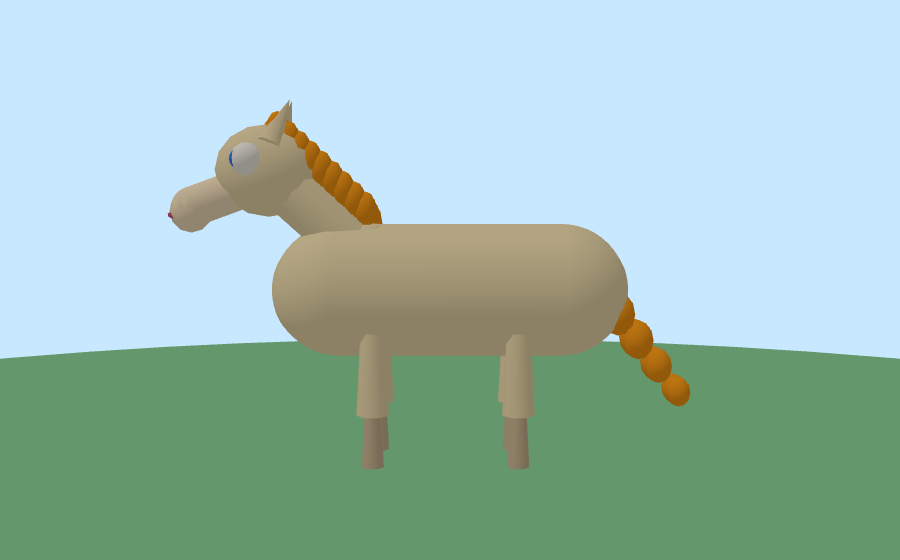
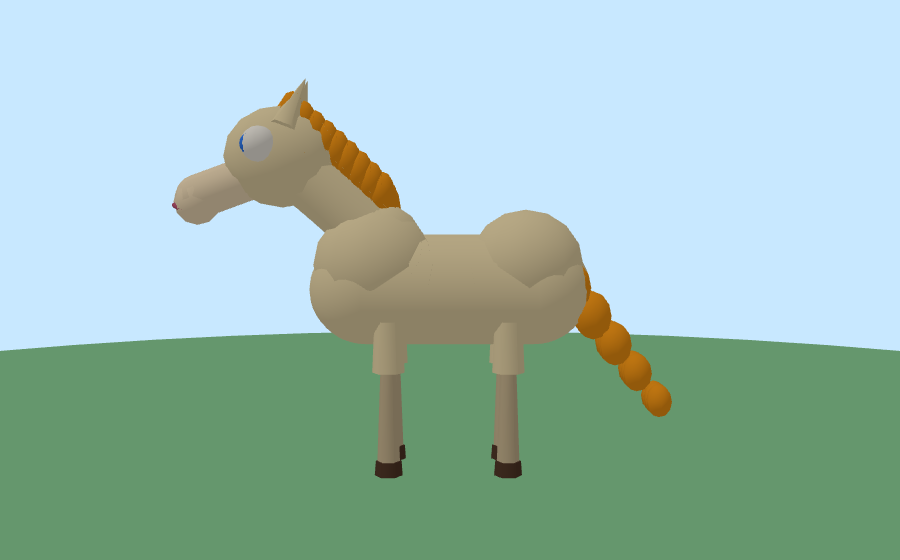
Stables: compact pony torso (build 2026.11.09-23)
Shorten the barrel to ~70% length and slim girth to ~78%, with a soft back dip and rounder chest/rump. Re-seat legs (slightly longer), neck base, tail, saddle and mane on the compact body; keep slim ~45° neck, sbNeckAttached and saddleTop seat.

Changed region(s): [[0.0, 0.1518, 1.0, 0.85]]

diff --git a/index.html b/index.html
@@ -1418,7 +1418,7 @@ const $ = s => document.querySelector(s);
 const $$ = s => [...document.querySelectorAll(s)];
 const COLORS = ['#ff4d5e','#ff9f1c','#ffd23f','#2ec27e','#3a86ff','#8b5cf6','#ff6fb5','#ffffff','#2d2d2d','#8d5524','#f1c27d','#ffdbac'];
 // Bump BUILD on every deploy (version.json next to index.html must match). Old cached pages compare and refresh themselves.
-const BUILD = '2026.11.09-22';
+const BUILD = '2026.11.09-23';
 function checkUpdate(why){
   if (location.protocol === 'file:') return Promise.resolve(false);
   return fetch('version.json?t=' + Date.now(), {cache: 'no-store'}).then(r => r.ok ? r.json() : null).then(j => {
@@ -10894,7 +10894,7 @@ const Obby = (() => {
     ic.lv = Math.max(1, Math.min(99, d.lv | 0 || 1)); (Array.isArray(d.ev) ? d.ev : []).forEach(e => icEvent(e));
   }
   function icGuestMsg(g, d){ if (!ic || ic.remote || !d) return; icApply(g, d); }
-  /* ===================== t238u: 🐴 pony silhouette — slimmer short neck + mane ===================== */
+  /* ===================== t239u: 🐴 compact pony torso + slim short neck ===================== */
   const SB_KEY = 'rubloxStable', SB_DRAIN = 25, SB_MOUNT_CD = .85;
   const SB_HIP = 1.32; // avatar pivot ≈ this above P.y — used to place hips on saddleTop
   const SB_PONIES = [
@@ -10926,7 +10926,7 @@ const Obby = (() => {
     return { top, foot, clear: foot + .55 };
   }
   function sbMesh(pony, x, z){
-    // Cute cartoon PONY (+Z forward). Short thick ~45° neck, horse muzzle, fluffy mane/tail.
+    // Cute cartoon PONY (+Z forward). Compact barrel, slim ~45° neck, horse muzzle, fluffy mane/tail.
     // Head is parented to neck; neck base embeds in chest, tip embeds in skull (sbNeckAttached).
     const def = sbPonyOf(pony.id), g = new THREE.Group(); g.position.set(x, 0, z); scene.add(g);
     const coat = sbMat(def.coat), maneM = sbMat(def.mane), hoofM = sbMat(def.hoof || shade(def.coat, -40));
@@ -10939,21 +10939,24 @@ const Obby = (() => {
       return v;
     };
 
-    // Horsey barrel — longer than tall (not an egg)
-    const body = new THREE.Mesh(new THREE.CapsuleGeometry(.46, 1.55, 6, 12), coat);
-    body.rotation.x = Math.PI / 2; body.position.set(0, 1.18, 0); g.add(body);
-    // chest fill so the thick neck base blends into the front of the barrel
-    const chest = new THREE.Mesh(new THREE.SphereGeometry(.28, 10, 8), coat);
-    chest.position.set(0, 1.32, .52); chest.scale.set(1.0, .9, 1.05); g.add(chest);
-    const bodyBounds = {minX: -.58, maxX: .58, minY: .68, maxY: 1.70, minZ: -1.25, maxZ: 1.15};
+    // Compact pony barrel — ~70% length, ~78% girth, slight back dip, round chest/rump
+    const body = new THREE.Mesh(new THREE.CapsuleGeometry(.35, 1.08, 6, 12), coat);
+    body.rotation.x = Math.PI / 2; body.position.set(0, 1.14, 0); g.add(body);
+    // rounder chest (front of barrel, not filling the throat under the slim neck)
+    const chest = new THREE.Mesh(new THREE.SphereGeometry(.34, 10, 8), coat);
+    chest.position.set(0, 1.30, .48); chest.scale.set(1.12, 1.08, 1.15); g.add(chest);
+    // rounder rump; slightly higher than mid-barrel so the back reads a soft dip
+    const rump = new THREE.Mesh(new THREE.SphereGeometry(.33, 10, 8), coat);
+    rump.position.set(0, 1.30, -.48); rump.scale.set(1.12, 1.05, 1.12); g.add(rump);
+    const bodyBounds = {minX: -.50, maxX: .50, minY: .72, maxY: 1.70, minZ: -.95, maxZ: .90};
 
-    // SHORT thick neck ~45° forward (llama was upright to y≈2.5; pony stops ~y=1.95)
+    // SHORT slim neck ~45° forward — base at withers of compact torso
     // base INSIDE chest/withers, tip INSIDE skull
-    const base = V3(0, 1.40, .58), mid = V3(0, 1.68, .88), tip = V3(0, 1.95, 1.18);
+    const base = V3(0, 1.42, .42), mid = V3(0, 1.68, .70), tip = V3(0, 1.92, .98);
     const neck = new THREE.Group(); neck.position.x = base.x; neck.position.y = base.y; neck.position.z = base.z; g.add(neck);
     const local = [base, mid, tip].map(p => V3(p.x - base.x, p.y - base.y, p.z - base.z));
     const curve = new THREE.CatmullRomCurve3(local);
-    // Wide at chest → slightly narrower at head (still thick)
+    // Slim: ~60% of the old head-wide wedge
     const tubeWide = new THREE.Mesh(new THREE.TubeGeometry(curve, 20, .20, 10, false), coat); neck.add(tubeWide);
     const tubeCore = new THREE.Mesh(new THREE.TubeGeometry(curve, 20, .17, 10, false), coat); neck.add(tubeCore);
     const jointBase = new THREE.Mesh(new THREE.SphereGeometry(.26, 10, 8), coat); jointBase.position.set(0, 0, 0); neck.add(jointBase);
@@ -11007,7 +11010,7 @@ const Obby = (() => {
     }
 
     // FULLER fluffy tail
-    const tail = new THREE.Group(); tail.position.set(0, 1.38, -.88); g.add(tail);
+    const tail = new THREE.Group(); tail.position.set(0, 1.34, -.62); g.add(tail);
     for (let i = 0; i < 6; i++){
       for (let k = 0; k < 3; k++){
         const t = new THREE.Mesh(new THREE.SphereGeometry(.14 - i * .012, 6, 6), maneM);
@@ -11018,26 +11021,26 @@ const Obby = (() => {
 
     // Slightly tapered legs + darker hooves
     const legs = [];
-    [[.28, .64, .52], [-.28, .64, .52], [.28, .64, -.46], [-.28, .64, -.46]].forEach(([lx, ly, lz]) => {
+    [[.22, .98, .38], [-.22, .98, .38], [.22, .98, -.36], [-.22, .98, -.36]].forEach(([lx, ly, lz]) => {
       const leg = new THREE.Group(); leg.position.set(lx, ly, lz); g.add(leg);
-      const thigh = new THREE.Mesh(new THREE.CylinderGeometry(.08, .11, .58, 6), coat); thigh.position.y = 0; leg.add(thigh);
-      const shin = new THREE.Mesh(new THREE.CylinderGeometry(.055, .08, .48, 6), dark); shin.position.y = -.5; leg.add(shin);
-      const hoof = new THREE.Mesh(new THREE.CylinderGeometry(.09, .1, .14, 6), hoofM); hoof.position.y = -.78; leg.add(hoof);
+      const thigh = new THREE.Mesh(new THREE.CylinderGeometry(.07, .10, .68, 6), coat); thigh.position.y = 0; leg.add(thigh);
+      const shin = new THREE.Mesh(new THREE.CylinderGeometry(.05, .07, .55, 6), dark); shin.position.y = -.615; leg.add(shin);
+      const hoof = new THREE.Mesh(new THREE.CylinderGeometry(.08, .09, .14, 6), hoofM); hoof.position.y = -.96; leg.add(hoof);
       legs.push(leg);
     });
 
     // Saddle on barrel — saddleTop drives rider seat (must stay consistent)
     const saddle = new THREE.Group(); saddle.visible = false; g.add(saddle);
-    const blanketY = 1.50, seatY = 1.56;
-    const blanket = new THREE.Mesh(new THREE.BoxGeometry(.7, .06, .9), sbMat('#ffd23f')); blanket.position.set(0, blanketY, .02); saddle.add(blanket);
-    const seat = new THREE.Mesh(new THREE.BoxGeometry(.55, .12, .7), sbMat('#8b4513')); seat.position.set(0, seatY, .02); saddle.add(seat);
+    const blanketY = 1.48, seatY = 1.54;
+    const blanket = new THREE.Mesh(new THREE.BoxGeometry(.58, .06, .7), sbMat('#ffd23f')); blanket.position.set(0, blanketY, .02); saddle.add(blanket);
+    const seat = new THREE.Mesh(new THREE.BoxGeometry(.48, .12, .55), sbMat('#8b4513')); seat.position.set(0, seatY, .02); saddle.add(seat);
     const saddleTop = seatY + .06;
     const bridle = new THREE.Group(); bridle.visible = false; head.add(bridle);
     const strap = new THREE.Mesh(new THREE.TorusGeometry(.26, .022, 6, 12), sbMat('#5a4030')); strap.rotation.y = Math.PI / 2; strap.position.set(0, -.02, .15); bridle.add(strap);
     const rein = new THREE.Mesh(new THREE.BoxGeometry(.04, .04, .45), sbMat('#5a4030')); rein.position.set(0, -.18, -.05); bridle.add(rein);
 
     g.userData.parts = {
-      body, neck, head, tail, legs, saddle, bridle, saddleTop, seat, jointBase, jointTop, maneTufts, chest,
+      body, neck, head, tail, legs, saddle, bridle, saddleTop, seat, jointBase, jointTop, maneTufts, chest, rump,
       neckBase: {x: base.x, y: base.y, z: base.z},
       neckTop: {x: tip.x, y: tip.y, z: tip.z},
       bodyBounds, headR: .5,

diff --git a/dev/stable/stable.js b/dev/stable/stable.js
@@ -1,4 +1,4 @@
-  /* ===================== t238u: 🐴 pony silhouette — slimmer short neck + mane ===================== */
+  /* ===================== t239u: 🐴 compact pony torso + slim short neck ===================== */
   const SB_KEY = 'rubloxStable', SB_DRAIN = 25, SB_MOUNT_CD = .85;
   const SB_HIP = 1.32; // avatar pivot ≈ this above P.y — used to place hips on saddleTop
   const SB_PONIES = [
@@ -30,7 +30,7 @@
     return { top, foot, clear: foot + .55 };
   }
   function sbMesh(pony, x, z){
-    // Cute cartoon PONY (+Z forward). Short thick ~45° neck, horse muzzle, fluffy mane/tail.
+    // Cute cartoon PONY (+Z forward). Compact barrel, slim ~45° neck, horse muzzle, fluffy mane/tail.
     // Head is parented to neck; neck base embeds in chest, tip embeds in skull (sbNeckAttached).
     const def = sbPonyOf(pony.id), g = new THREE.Group(); g.position.set(x, 0, z); scene.add(g);
     const coat = sbMat(def.coat), maneM = sbMat(def.mane), hoofM = sbMat(def.hoof || shade(def.coat, -40));
@@ -43,21 +43,24 @@
       return v;
     };
 
-    // Horsey barrel — longer than tall (not an egg)
-    const body = new THREE.Mesh(new THREE.CapsuleGeometry(.46, 1.55, 6, 12), coat);
-    body.rotation.x = Math.PI / 2; body.position.set(0, 1.18, 0); g.add(body);
-    // chest fill so the thick neck base blends into the front of the barrel
-    const chest = new THREE.Mesh(new THREE.SphereGeometry(.28, 10, 8), coat);
-    chest.position.set(0, 1.32, .52); chest.scale.set(1.0, .9, 1.05); g.add(chest);
-    const bodyBounds = {minX: -.58, maxX: .58, minY: .68, maxY: 1.70, minZ: -1.25, maxZ: 1.15};
+    // Compact pony barrel — ~70% length, ~78% girth, slight back dip, round chest/rump
+    const body = new THREE.Mesh(new THREE.CapsuleGeometry(.35, 1.08, 6, 12), coat);
+    body.rotation.x = Math.PI / 2; body.position.set(0, 1.14, 0); g.add(body);
+    // rounder chest (front of barrel, not filling the throat under the slim neck)
+    const chest = new THREE.Mesh(new THREE.SphereGeometry(.34, 10, 8), coat);
+    chest.position.set(0, 1.30, .48); chest.scale.set(1.12, 1.08, 1.15); g.add(chest);
+    // rounder rump; slightly higher than mid-barrel so the back reads a soft dip
+    const rump = new THREE.Mesh(new THREE.SphereGeometry(.33, 10, 8), coat);
+    rump.position.set(0, 1.30, -.48); rump.scale.set(1.12, 1.05, 1.12); g.add(rump);
+    const bodyBounds = {minX: -.50, maxX: .50, minY: .72, maxY: 1.70, minZ: -.95, maxZ: .90};
 
-    // SHORT thick neck ~45° forward (llama was upright to y≈2.5; pony stops ~y=1.95)
+    // SHORT slim neck ~45° forward — base at withers of compact torso
     // base INSIDE chest/withers, tip INSIDE skull
-    const base = V3(0, 1.40, .58), mid = V3(0, 1.68, .88), tip = V3(0, 1.95, 1.18);
+    const base = V3(0, 1.42, .42), mid = V3(0, 1.68, .70), tip = V3(0, 1.92, .98);
     const neck = new THREE.Group(); neck.position.x = base.x; neck.position.y = base.y; neck.position.z = base.z; g.add(neck);
     const local = [base, mid, tip].map(p => V3(p.x - base.x, p.y - base.y, p.z - base.z));
     const curve = new THREE.CatmullRomCurve3(local);
-    // Wide at chest → slightly narrower at head (still thick)
+    // Slim: ~60% of the old head-wide wedge
     const tubeWide = new THREE.Mesh(new THREE.TubeGeometry(curve, 20, .20, 10, false), coat); neck.add(tubeWide);
     const tubeCore = new THREE.Mesh(new THREE.TubeGeometry(curve, 20, .17, 10, false), coat); neck.add(tubeCore);
     const jointBase = new THREE.Mesh(new THREE.SphereGeometry(.26, 10, 8), coat); jointBase.position.set(0, 0, 0); neck.add(jointBase);
@@ -111,7 +114,7 @@
     }
 
     // FULLER fluffy tail
-    const tail = new THREE.Group(); tail.position.set(0, 1.38, -.88); g.add(tail);
+    const tail = new THREE.Group(); tail.position.set(0, 1.34, -.62); g.add(tail);
     for (let i = 0; i < 6; i++){
       for (let k = 0; k < 3; k++){
         const t = new THREE.Mesh(new THREE.SphereGeometry(.14 - i * .012, 6, 6), maneM);
@@ -122,26 +125,26 @@
 
     // Slightly tapered legs + darker hooves
     const legs = [];
-    [[.28, .64, .52], [-.28, .64, .52], [.28, .64, -.46], [-.28, .64, -.46]].forEach(([lx, ly, lz]) => {
+    [[.22, .98, .38], [-.22, .98, .38], [.22, .98, -.36], [-.22, .98, -.36]].forEach(([lx, ly, lz]) => {
       const leg = new THREE.Group(); leg.position.set(lx, ly, lz); g.add(leg);
-      const thigh = new THREE.Mesh(new THREE.CylinderGeometry(.08, .11, .58, 6), coat); thigh.position.y = 0; leg.add(thigh);
-      const shin = new THREE.Mesh(new THREE.CylinderGeometry(.055, .08, .48, 6), dark); shin.position.y = -.5; leg.add(shin);
-      const hoof = new THREE.Mesh(new THREE.CylinderGeometry(.09, .1, .14, 6), hoofM); hoof.position.y = -.78; leg.add(hoof);
+      const thigh = new THREE.Mesh(new THREE.CylinderGeometry(.07, .10, .68, 6), coat); thigh.position.y = 0; leg.add(thigh);
+      const shin = new THREE.Mesh(new THREE.CylinderGeometry(.05, .07, .55, 6), dark); shin.position.y = -.615; leg.add(shin);
+      const hoof = new THREE.Mesh(new THREE.CylinderGeometry(.08, .09, .14, 6), hoofM); hoof.position.y = -.96; leg.add(hoof);
       legs.push(leg);
     });
 
     // Saddle on barrel — saddleTop drives rider seat (must stay consistent)
     const saddle = new THREE.Group(); saddle.visible = false; g.add(saddle);
-    const blanketY = 1.50, seatY = 1.56;
-    const blanket = new THREE.Mesh(new THREE.BoxGeometry(.7, .06, .9), sbMat('#ffd23f')); blanket.position.set(0, blanketY, .02); saddle.add(blanket);
-    const seat = new THREE.Mesh(new THREE.BoxGeometry(.55, .12, .7), sbMat('#8b4513')); seat.position.set(0, seatY, .02); saddle.add(seat);
+    const blanketY = 1.48, seatY = 1.54;
+    const blanket = new THREE.Mesh(new THREE.BoxGeometry(.58, .06, .7), sbMat('#ffd23f')); blanket.position.set(0, blanketY, .02); saddle.add(blanket);
+    const seat = new THREE.Mesh(new THREE.BoxGeometry(.48, .12, .55), sbMat('#8b4513')); seat.position.set(0, seatY, .02); saddle.add(seat);
     const saddleTop = seatY + .06;
     const bridle = new THREE.Group(); bridle.visible = false; head.add(bridle);
     const strap = new THREE.Mesh(new THREE.TorusGeometry(.26, .022, 6, 12), sbMat('#5a4030')); strap.rotation.y = Math.PI / 2; strap.position.set(0, -.02, .15); bridle.add(strap);
     const rein = new THREE.Mesh(new THREE.BoxGeometry(.04, .04, .45), sbMat('#5a4030')); rein.position.set(0, -.18, -.05); bridle.add(rein);
 
     g.userData.parts = {
-      body, neck, head, tail, legs, saddle, bridle, saddleTop, seat, jointBase, jointTop, maneTufts, chest,
+      body, neck, head, tail, legs, saddle, bridle, saddleTop, seat, jointBase, jointTop, maneTufts, chest, rump,
       neckBase: {x: base.x, y: base.y, z: base.z},
       neckTop: {x: tip.x, y: tip.y, z: tip.z},
       bodyBounds, headR: .5,

diff --git a/dev/stable/renders/pony-side.html b/dev/stable/renders/pony-side.html
@@ -11,7 +11,9 @@ const renderer=new THREE.WebGLRenderer({antialias:true,preserveDrawingBuffer:tru
 renderer.setSize(W,H); renderer.setPixelRatio(1); document.body.appendChild(renderer.domElement);
 const scene=new THREE.Scene(); scene.background=new THREE.Color(0xc8e8ff);
 const cam=new THREE.PerspectiveCamera(32,W/H,.1,100);
-cam.position.set(6.8,1.55,0); cam.lookAt(0,1.25,0);
+const view=(location.search.match(/view=([^&]+)/)||[])[1]||'side';
+if(view==='34'){ cam.position.set(4.6,2.1,3.6); cam.lookAt(0,1.2,0); }
+else { cam.position.set(6.2,1.55,0); cam.lookAt(0,1.2,0); }
 scene.add(new THREE.AmbientLight(0xffffff,0.9));
 const sun=new THREE.DirectionalLight(0xffffff,0.7); sun.position.set(2,6,3); scene.add(sun);
 const ground=new THREE.Mesh(new THREE.CircleGeometry(8,48), new THREE.MeshLambertMaterial({color:0x8fd39a}));
@@ -19,11 +21,13 @@ ground.rotation.x=-Math.PI/2; scene.add(ground);
 function mat(c){ return new THREE.MeshLambertMaterial({color:c}); }
 const coat=0xf6e3b4, mane=0xff9f1c, soft=0xffe9c4, dark=0xd4c09a, hoof=0x5a4030, eye=0x3a86ff;
 const g=new THREE.Group(); scene.add(g);
-const body=new THREE.Mesh(new THREE.CapsuleGeometry(.46,1.55,6,12), mat(coat));
-body.rotation.x=Math.PI/2; body.position.set(0,1.18,0); g.add(body);
-const chest=new THREE.Mesh(new THREE.SphereGeometry(.28,10,8), mat(coat));
-chest.position.set(0,1.32,.52); chest.scale.set(1.0,.9,1.05); g.add(chest);
-const base=new THREE.Vector3(0,1.40,.58), mid=new THREE.Vector3(0,1.68,.88), tip=new THREE.Vector3(0,1.95,1.18);
+const body=new THREE.Mesh(new THREE.CapsuleGeometry(.35,1.08,6,12), mat(coat));
+body.rotation.x=Math.PI/2; body.position.set(0,1.14,0); g.add(body);
+const chest=new THREE.Mesh(new THREE.SphereGeometry(.34,10,8), mat(coat));
+chest.position.set(0,1.30,.48); chest.scale.set(1.12,1.08,1.15); g.add(chest);
+const rump=new THREE.Mesh(new THREE.SphereGeometry(.33,10,8), mat(coat));
+rump.position.set(0,1.30,-.48); rump.scale.set(1.12,1.05,1.12); g.add(rump);
+const base=new THREE.Vector3(0,1.42,.42), mid=new THREE.Vector3(0,1.68,.70), tip=new THREE.Vector3(0,1.92,.98);
 const neck=new THREE.Group(); neck.position.copy(base); g.add(neck);
 const local=[base,mid,tip].map(function(p){ return new THREE.Vector3().subVectors(p,base); });
 const curve=new THREE.CatmullRomCurve3(local);
@@ -55,21 +59,25 @@ for(var i=0;i<9;i++){
 }
 var fore=new THREE.Group(); fore.position.set(0,.28,.05); head.add(fore);
 for(var k=0;k<4;k++){ var blob=new THREE.Mesh(new THREE.SphereGeometry(.11,6,6), mat(mane)); blob.position.set((k-1.5)*.06,-.05*k,.04*k); blob.scale.set(1,1.4,1); fore.add(blob); }
-var tail=new THREE.Group(); tail.position.set(0,1.38,-.88); g.add(tail);
+var tail=new THREE.Group(); tail.position.set(0,1.34,-.62); g.add(tail);
 for(var i=0;i<6;i++) for(var k=0;k<3;k++){
   var tt=new THREE.Mesh(new THREE.SphereGeometry(.14-i*.012,6,6), mat(mane));
   tt.position.set((k-1)*.08, -.18*i, -.14*i); tt.scale.set(1.15,1.3,1.05); tail.add(tt);
 }
-[[.28,.64,.52],[-.28,.64,.52],[.28,.64,-.46],[-.28,.64,-.46]].forEach(function(L){
+[[.22,.98,.38],[-.22,.98,.38],[.22,.98,-.36],[-.22,.98,-.36]].forEach(function(L){
   var leg=new THREE.Group(); leg.position.set(L[0],L[1],L[2]); g.add(leg);
-  leg.add(new THREE.Mesh(new THREE.CylinderGeometry(.08,.11,.58,6), mat(coat)));
-  var shin=new THREE.Mesh(new THREE.CylinderGeometry(.055,.08,.48,6), mat(dark)); shin.position.y=-.5; leg.add(shin);
-  var hf=new THREE.Mesh(new THREE.CylinderGeometry(.09,.1,.14,6), mat(hoof)); hf.position.y=-.78; leg.add(hf);
+  leg.add(new THREE.Mesh(new THREE.CylinderGeometry(.07,.10,.68,6), mat(coat)));
+  var shin=new THREE.Mesh(new THREE.CylinderGeometry(.05,.07,.55,6), mat(dark)); shin.position.y=-.615; leg.add(shin);
+  var hf=new THREE.Mesh(new THREE.CylinderGeometry(.08,.09,.14,6), mat(hoof)); hf.position.y=-.96; leg.add(hf);
 });
-// Side view: nose to +Z, camera on +X looking -X
 g.rotation.y = 0;
 renderer.render(scene,cam);
 document.title='ready';
 document.body.setAttribute('data-ready','1');
+window.__rerender=function(kind){
+  if(kind==='34'){ cam.position.set(4.6,2.1,3.6); cam.lookAt(0,1.2,0); }
+  else { cam.position.set(6.2,1.55,0); cam.lookAt(0,1.2,0); }
+  renderer.render(scene,cam);
+};
 })();
 </script></body></html>
